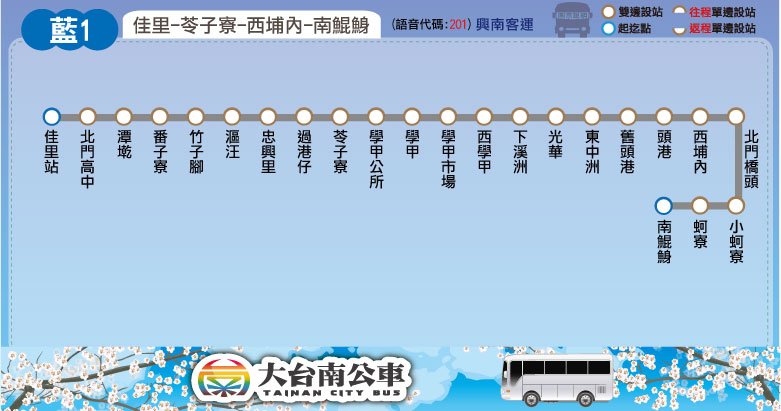
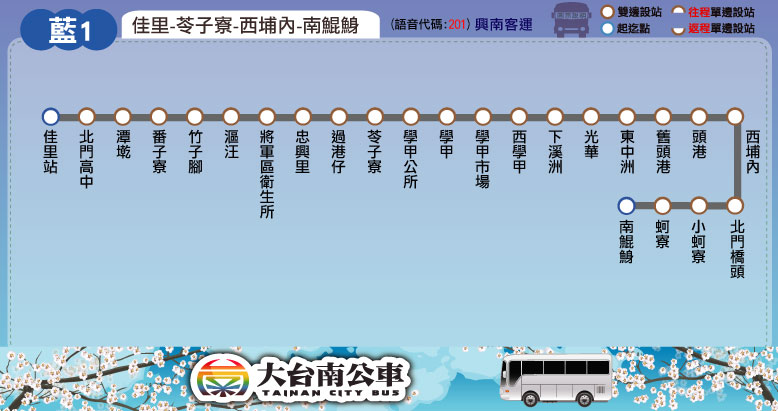
新增站位：藍1、藍10(增「將軍區衛生所」)

Changed region(s): [[0.0, 0.0, 1.0, 1.0], [0.2468, 0.3796, 0.2776, 0.4088]]

diff --git a/route/fare_and_time/blue_10.js b/route/fare_and_time/blue_10.js
@@ -2,12 +2,12 @@ blue_10_interval_name = ["佳里","番子寮","漚汪","苓子寮","將軍","山
 blue_10_interval_stop = [
 ["佳里站","北門高中","潭墘"], // 佳里
 ["番子寮"], // 番子寮
-["竹子腳","漚汪","中社","忠興里","過港仔"], // 漚汪
+["竹子腳","漚汪","將軍區衛生所","中社","忠興里","過港仔"], // 漚汪
 ["苓子寮","巷口"], // 苓子寮
 ["北埔","將軍","將軍國小"], // 將軍
 ["玉山里口","玉山里","公館","山子腳","廣山里"], // 山子腳
 ["長平國小","馬沙溝"], // 馬沙溝
-["將軍漁港"] // 將軍漁港
+["將軍漁港","馬沙溝遊憩區"] // 將軍漁港
 ];
 blue_10_fare = [
 [26],

diff --git a/blue/blue_10.html b/blue/blue_10.html
@@ -20,7 +20,7 @@
 	block_route_map(null);
 	block_route_info(route_interval,'興南客運','','里程計費','http://www.2384.com.tw/ebus/jsp/ajaxBus.jsp?pathId=1210&locale=zh_TW');
 	block_fare(0, null);
-	block_time_schedule('佳里','將軍漁港','「<span style="color: blue;">繞</span>」表示繞駛中社');
+	block_time_schedule('佳里','將軍漁港','「<span style="color: blue;">繞</span>」表示繞駛中社<br /><span style="font-size: 16px;">逢「一見雙雕藝術季」期間之例假日，延駛至馬沙溝遊憩區(約每年7、8月時)</span>');
 	block_transfer(transfer_jiali);
 	block_copyright();
 </script>
